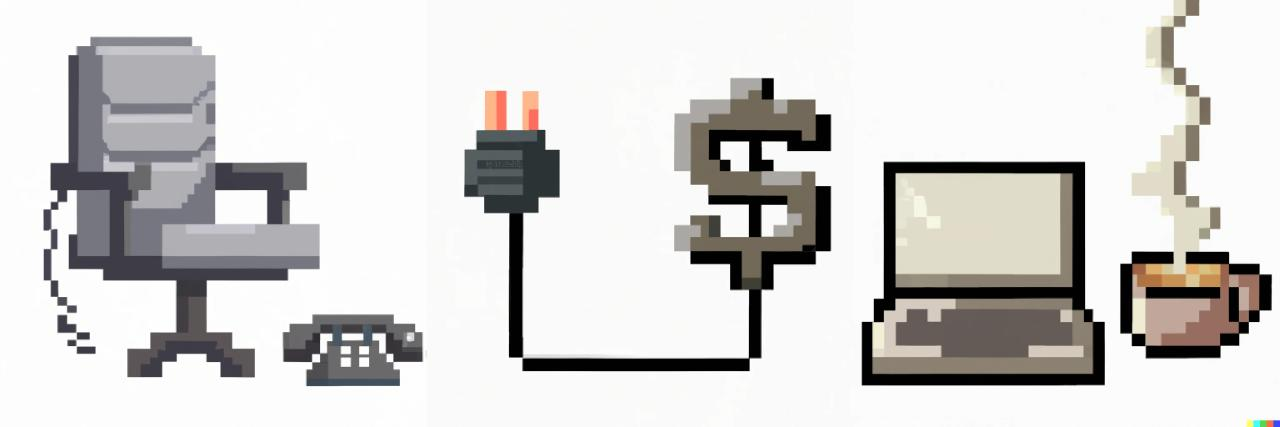
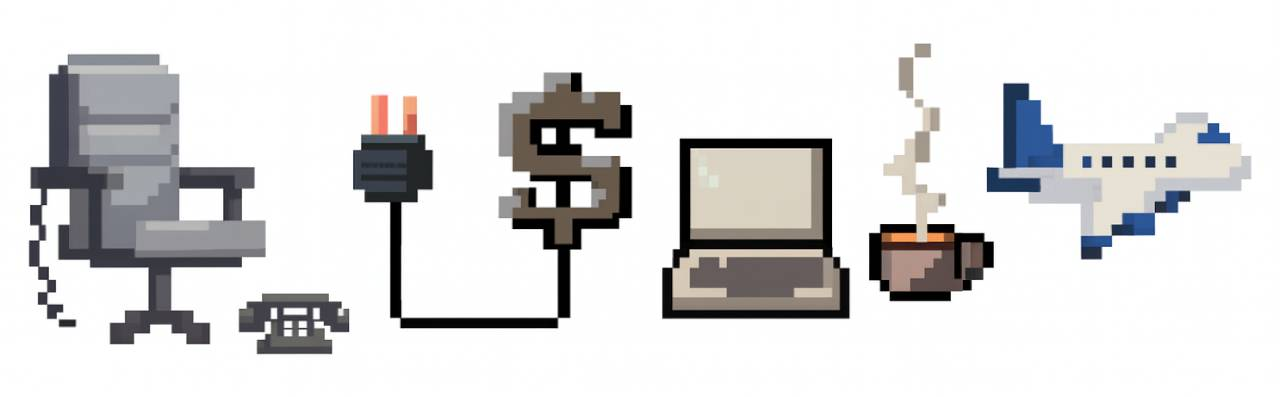
content and images update

diff --git a/content/career/index.md b/content/career/index.md
@@ -9,6 +9,26 @@ weight = 2
 
 _2023 - present, Hamburg, Germany_
 
+**Project #1:**
+[Digital Product Passport Application](https://www.lufthansa-industry-solutions.com/de-en/solutions-products/digital-product-passport): Development of an EU-compliant digital ID for products, components, and materials.
+
+**Responsibilities & Achievements:** 
+- Designing and architecting a scalable greenfield application from scratch based on comprehensive business requirements gathered from various stakeholders. 
+- Agile development of Go microservices (e.g., file storage, data management, admin services). 
+- Task planning and management of a small backend development team. 
+- Deployment of microservices using Docker, Kubernetes, ArgoCD, and GitLab CI. 
+- Implementation and management of authentication (OIDC & ApiKey) and authorization using RedHat SSO. 
+- Implementation of an API gateway with Nginx as the single entry point for our microservices and client applications.
+
+**Project #2:**
+New system for managing and issuing aircraft component certificates (e.g., EASA Form 1, FAA Form 8130-3).
+
+**Responsibilities & Achievements:** 
+- Developed REST APIs with Quarkus, managed specifications via Apicurio, and integrated with OracleDB.
+- Implemented CI/CD with Jenkins and deployed services to Kubernetes using Helm.
+- Integrated with enterprise systems, including SAP processes via OData, internal REST services for component data, and company-wide SSO.
+- Supported multiple certification workflows, ensuring compliance and traceability across the supply chain.
+
 ## DPS - IT for Finance, Retail & Public Sector
 
 <h3>Software Developer</h3>

diff --git a/content/edu/index.md b/content/edu/index.md
@@ -7,7 +7,7 @@ weight = 3
 
 I graduated from the [University of Applied Science Hamburg](https://www.haw-hamburg.de/en/) with a bachelor degree in computer science in 2019. I consider myself lucky to join Prof. Becke’s group of students who specialized in distributed systems. Under Professor Becke guidance, I wrote my graduate thesis on “Analysis of a blockchain-based IoT infrastructure with Ethereum and Swarm”.
 
-{{< twitter_simple 1164804305964023808 >}}
+{{< x user="CADS_HAW" id="1164804305964023808" >}}
 
 During the study, the IoT devices were configured as blockchain nodes and integrated into a common private Ethereum network. In the respective architectures, a Swarm Peer-to-Peer network was used as the data storage and Smart Contract was provided to enable interaction with the blockchain. The system was exposed to a linearly increasing data load within 36 hours.
 
@@ -16,6 +16,11 @@ During the study, the IoT devices were configured as blockchain nodes and integr
 The final thesis can be found [here](https://reposit.haw-hamburg.de/handle/20.500.12738/9127).
 
 ## Certificates & Courses
+
+- **KCNA: Kubernetes and Cloud Native Associate**
+<br/>
+_The Linux Foundation, 2025_<br/>
+ID: [LF-mtji59r1ju](https://www.credly.com/badges/54642bce-6362-4909-b8d0-959afc09f2e4)
 
 - **AWS Certified Cloud Practitioner**
 <br/>

diff --git a/content/about/index.md b/content/about/index.md
@@ -3,4 +3,4 @@ title = "About"
 weight = 1
 +++
 ![about](images/art_about.jpg)
-I am a software developer with 8 years of experience in payment services and energy monitoring systems. My curiosity and passion for information technologies drives me to experiment and apply my knowledge out of working hours. I look forward to continued involvement in projects with ambitions, wide tech stacks, and a friendly team.
+I am a software developer with 11 years of experience in payment services, aviation, logistics, and energy monitoring systems. My curiosity and passion for information technologies drives me to experiment and apply my knowledge out of working hours. I look forward to continued involvement in projects with ambitions, wide tech stacks, and a friendly team.
